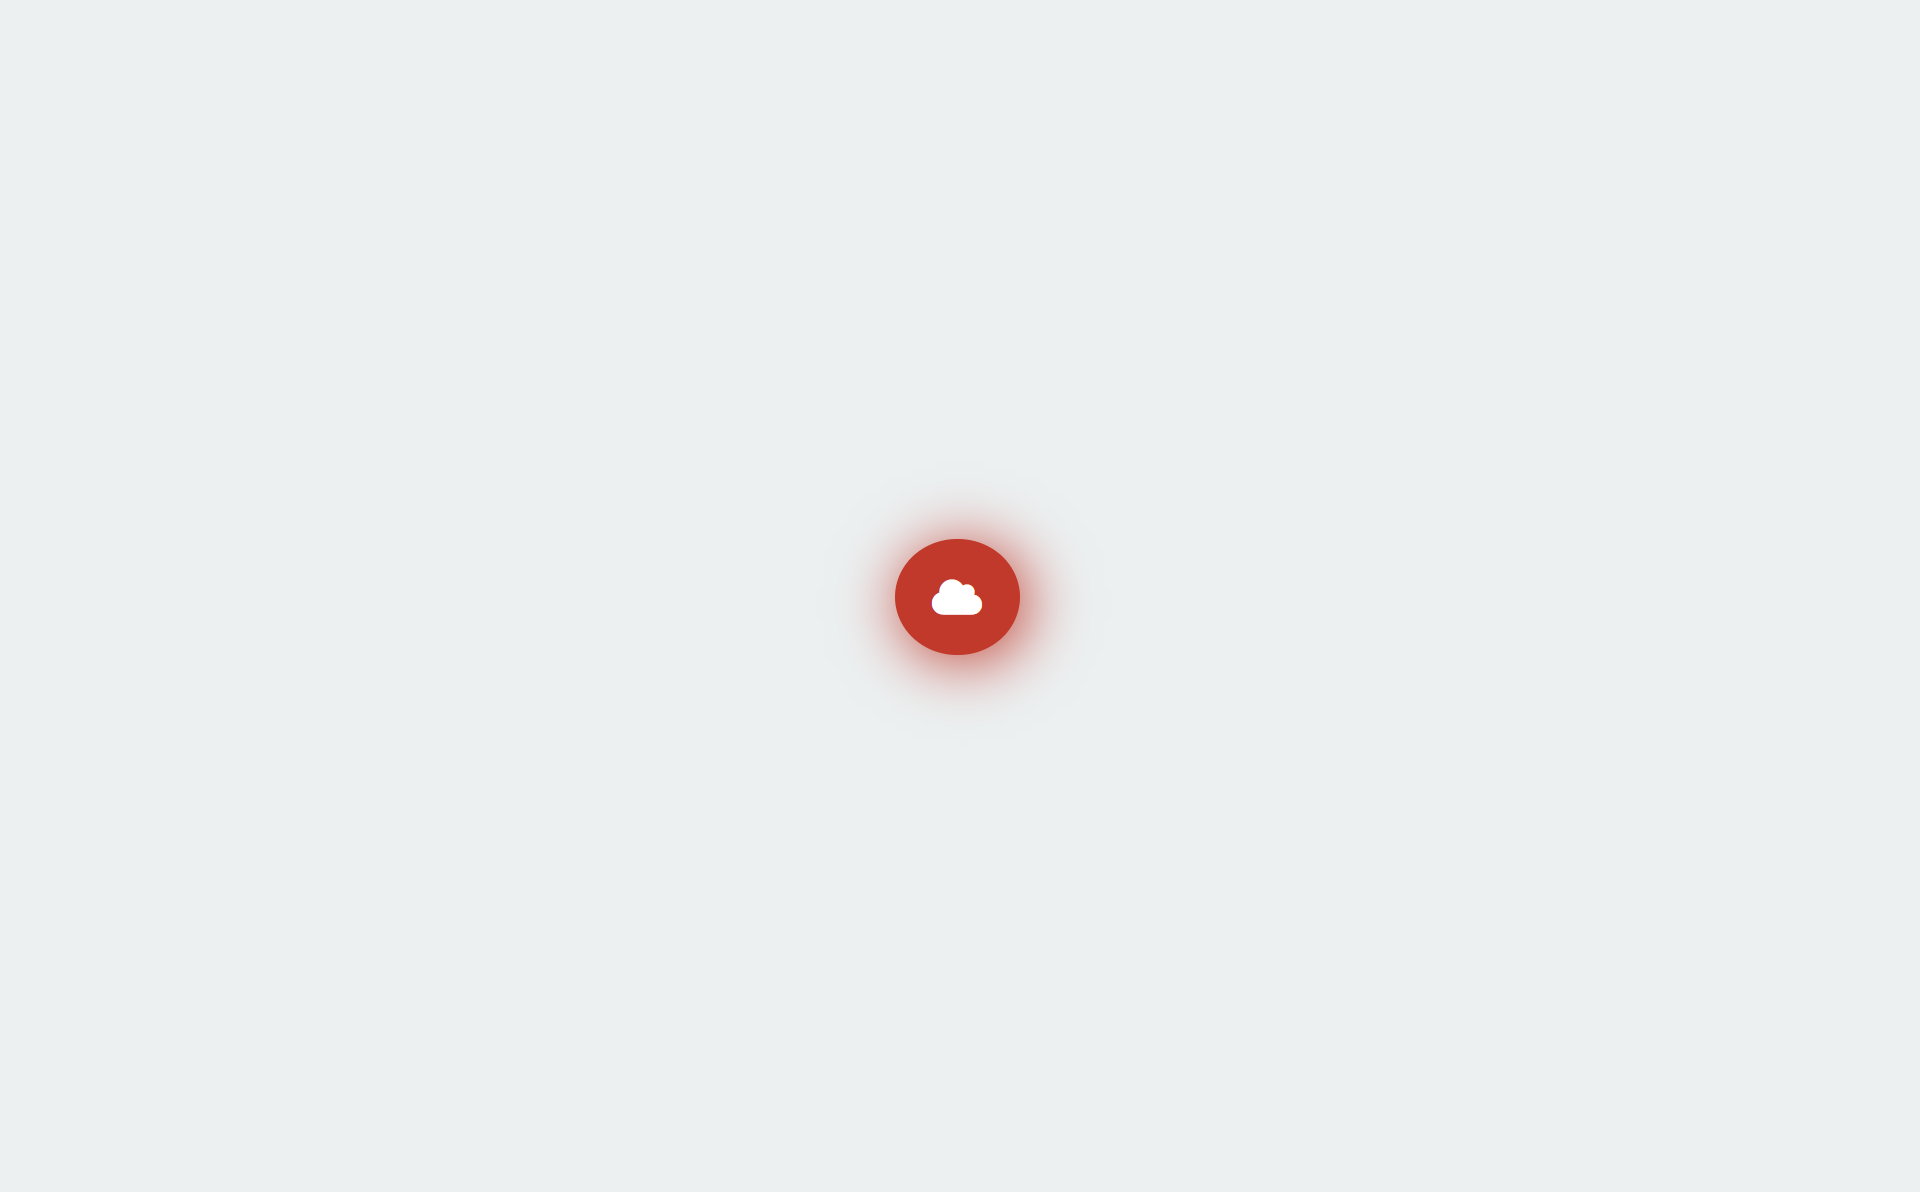
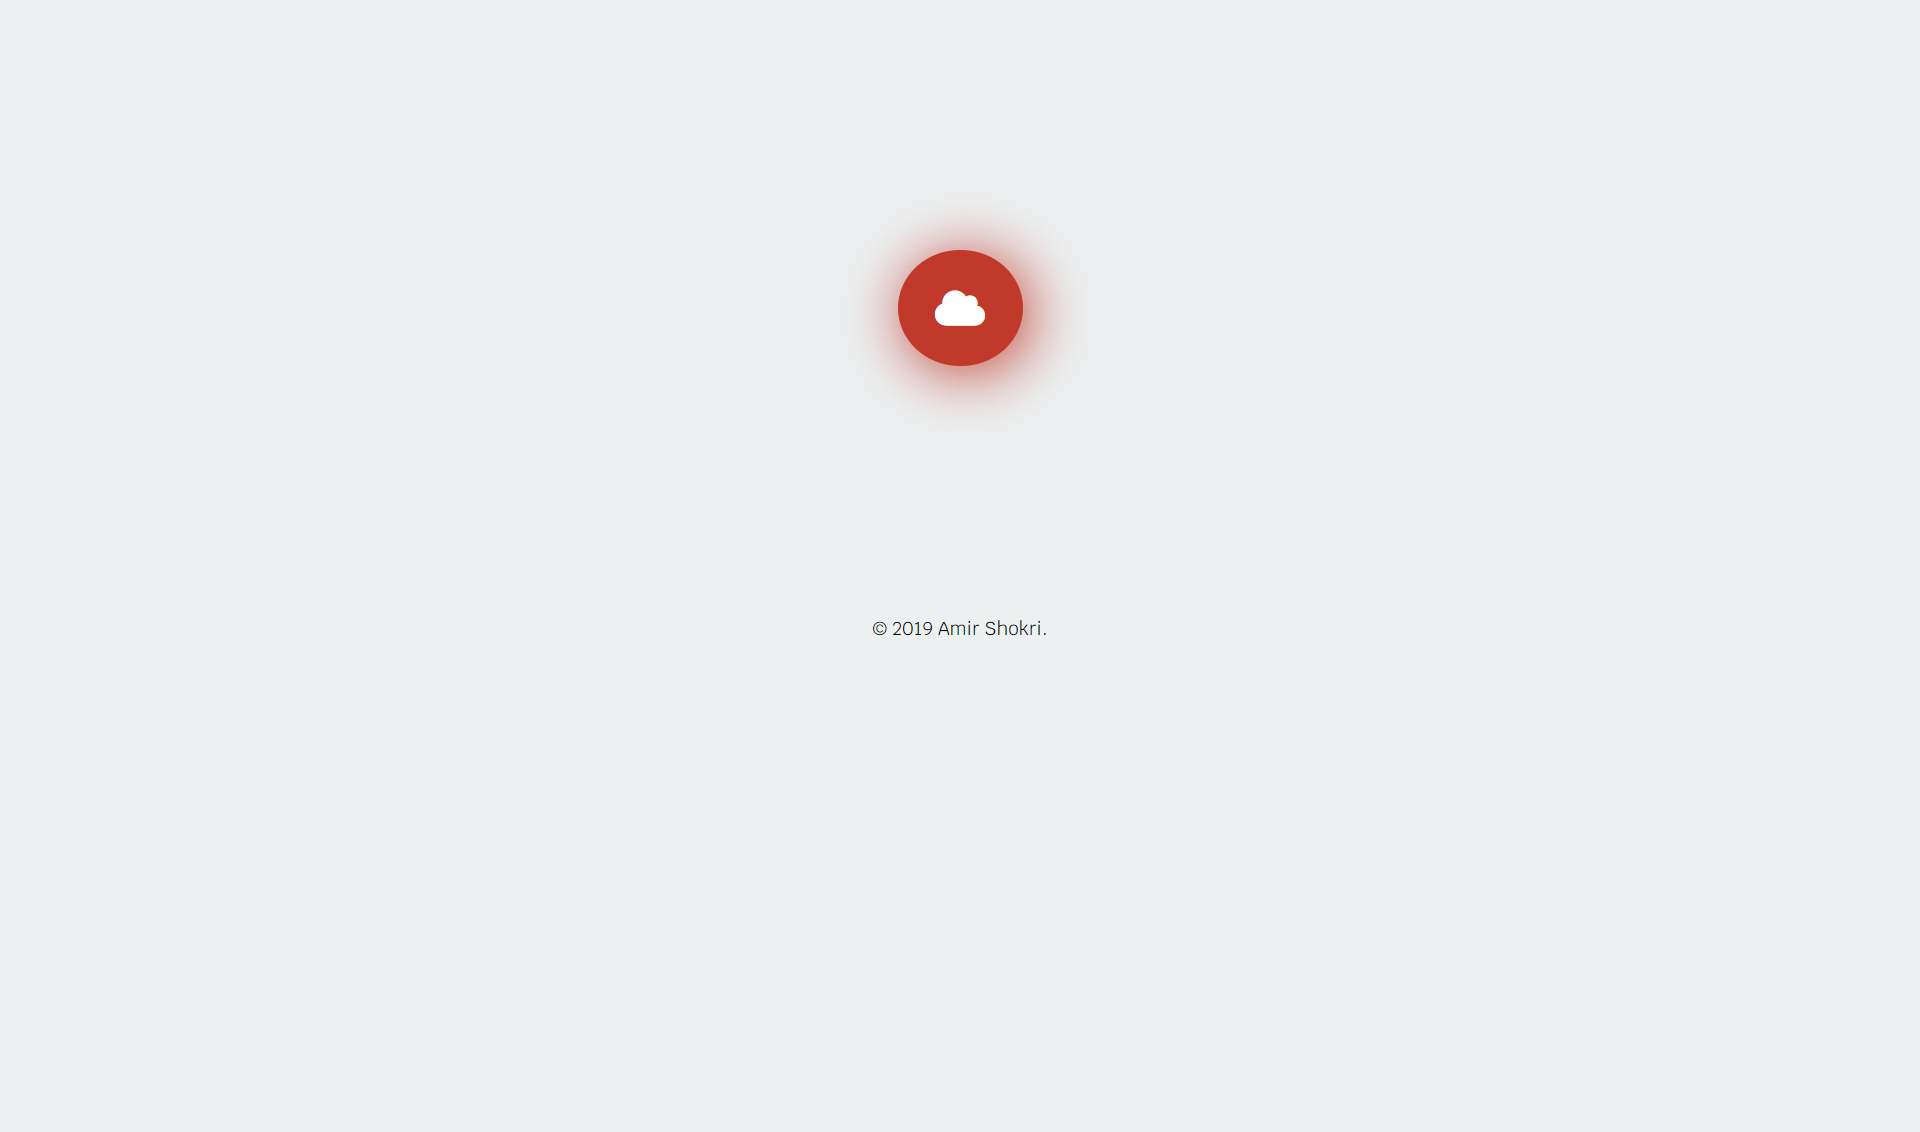
commit #66 (finish 032 Crowdfunding Campaign)
finish 032 Crowdfunding Campaign
add copy right in 031 File Upload
Minify Kurb Font Css Layout
Minfy Main Layout Repo
Add Some Class in Personal Css Library in Repo

Changed region(s): [[0.4375, 0.1855, 0.5625, 0.371], [0.4375, 0.4329, 0.5625, 0.5875]]

diff --git a/assets/css/krub-font.css b/assets/css/krub-font.css
@@ -1,91 +1,111 @@
+/* Optimise : Sat, 27 May 2019 00:07:26 */
+
 @charset "UTF-8";
 
-/* --- KRUB Font : krub-font.css --- */
-
-/* font face */
 @font-face {
-    font-family: 'Krub-Bold';
-    src: url('../font/krub/Krub-Bold.ttf') format('truetype');
-}
-@font-face {
-    font-family: 'Krub-BoldItalic';
-    src: url('../font/krub/Krub-BoldItalic.ttf') format('truetype');
-}
-@font-face {
-    font-family: 'Krub-ExtraLight';
-    src: url('../font/krub/Krub-ExtraLight.ttf') format('truetype');
-}
-@font-face {
-    font-family: 'Krub-Bold';
-    src: url('../font/krub/Krub-Bold.ttf') format('truetype');
-}
-@font-face {
-    font-family: 'Krub-Italic';
-    src: url('../font/krub/Krub-Italic.ttf') format('truetype');
-}
-@font-face {
-    font-family: 'Krub-Light';
-    src: url('../font/krub/Krub-Light.ttf') format('truetype');
-}
-@font-face {
-    font-family: 'Krub-LightItalic';
-    src: url('../font/krub/Krub-LightItalic.ttf') format('truetype');
-}
-@font-face {
-    font-family: 'Krub-Medium';
-    src: url('../font/krub/Krub-Medium.ttf') format('truetype');
-}
-@font-face {
-    font-family: 'Krub-MediumItalic';
-    src: url('../font/krub/Krub-MediumItalic.ttf') format('truetype');
-}
-@font-face {
-    font-family: 'Krub-Regular';
-    src: url('../font/krub/Krub-Regular.ttf') format('truetype');
-}
-@font-face {
-    font-family: 'Krub-SemiBold';
-    src: url('../font/krub/Krub-SemiBold.ttf') format('truetype');
-}
-@font-face {
-    font-family: 'Krub-SemiBoldItalic';
-    src: url('../font/krub/Krub-SemiBoldItalic.ttf') format('truetype');
+font-family:'Krub-Bold';
+src:url(../font/krub/Krub-Bold.ttf) format("truetype")
 }
 
-/* Classes */
+@font-face {
+font-family:'Krub-BoldItalic';
+src:url(../font/krub/Krub-BoldItalic.ttf) format("truetype")
+}
+
+@font-face {
+font-family:'Krub-ExtraLight';
+src:url(../font/krub/Krub-ExtraLight.ttf) format("truetype")
+}
+
+@font-face {
+font-family:'Krub-Bold';
+src:url(../font/krub/Krub-Bold.ttf) format("truetype")
+}
+
+@font-face {
+font-family:'Krub-Italic';
+src:url(../font/krub/Krub-Italic.ttf) format("truetype")
+}
+
+@font-face {
+font-family:'Krub-Light';
+src:url(../font/krub/Krub-Light.ttf) format("truetype")
+}
+
+@font-face {
+font-family:'Krub-LightItalic';
+src:url(../font/krub/Krub-LightItalic.ttf) format("truetype")
+}
+
+@font-face {
+font-family:'Krub-Medium';
+src:url(../font/krub/Krub-Medium.ttf) format("truetype")
+}
+
+@font-face {
+font-family:'Krub-MediumItalic';
+src:url(../font/krub/Krub-MediumItalic.ttf) format("truetype")
+}
+
+@font-face {
+font-family:'Krub-Regular';
+src:url(../font/krub/Krub-Regular.ttf) format("truetype")
+}
+
+@font-face {
+font-family:'Krub-SemiBold';
+src:url(../font/krub/Krub-SemiBold.ttf) format("truetype")
+}
+
+@font-face {
+font-family:'Krub-SemiBoldItalic';
+src:url(../font/krub/Krub-SemiBoldItalic.ttf) format("truetype")
+}
+
 .krub-bold {
-    font-family: 'Krub-Bold';
+font-family:'Krub-Bold'!important
 }
+
 .krub-bolditalic {
-    font-family: 'Krub-BoldItalic';
+font-family:'Krub-BoldItalic'!important
 }
+
 .krub-extralight {
-    font-family: 'Krub-ExtraLight';
+font-family:'Krub-ExtraLight'!important
 }
+
 .krub-bold {
-    font-family: 'Krub-Bold';
+font-family:'Krub-Bold'!important
 }
+
 .krub-italic {
-    font-family: 'Krub-Italic';
+font-family:'Krub-Italic'!important
 }
+
 .krub-light {
-    font-family: 'Krub-Light';
+font-family:'Krub-Light'!important
 }
+
 .krub-lightitalic {
-    font-family: 'Krub-LightItalic';
+font-family:'Krub-LightItalic'!important
 }
+
 .krub-medium {
-    font-family: 'Krub-Medium';
+font-family:'Krub-Medium'!important
 }
+
 .krub-mediumitalic {
-    font-family: 'Krub-MediumItalic';
+font-family:'Krub-MediumItalic'!important
 }
+
 .krub-regular {
-    font-family: 'Krub-Regular';
+font-family:'Krub-Regular'!important
 }
+
 .krub-semibold {
-    font-family: 'Krub-SemiBold';
+font-family:'Krub-SemiBold'!important
 }
+
 .krub-semibolditalic {
-    font-family: 'Krub-SemiBoldItalic';
+font-family:'Krub-SemiBoldItalic'!important
 }

diff --git a/032_crowdfunding_campaign.html b/032_crowdfunding_campaign.html
@@ -11,9 +11,26 @@
 </head>
 <body>
 
-	<div class="ui-032 left-to-right krub-regular d-block">
+	<div class="ui-032 left-to-right krub-regular d-flex col-12">
 
 		<!-- Page Content -->
+		<div class="donate-box d-inline-block silver-bg text-center m-auto">
+			<div class="row">
+				<div class="col-12">
+					<h1>Help War on Poverty Today</h1>
+					<p>Working today to change tomorrow!</p>
+					<br />
+					<h2>Donate Now</h2>
+					<p>$19.99</p>
+					<form method="get" action="">
+						<input type="submit" name="donate" value="Donate" class="b-none pomegranate-bg text-light c-pointer display-1-2" />
+					</form>
+					<br />
+					<p>Your generous gift will help us fund our mission to help those in need. Together, we can make a difference.</p>
+				</div>
+			</div>
+			<p class="display-1-2 text-center">&copy; 2019 Amir Shokri.</p>
+		</div>
 
 	</div>
 

diff --git a/index.html b/index.html
@@ -64,7 +64,7 @@
 						<li><a href="030_pricing.html" title="Daily UI 030">30. Pricing</a></li>
 						<li><a href="031_file_upload.html" title="Daily UI 031">31. File Upload</a></li>
 						<li><a href="032_crowdfunding_campaign.html" title="Daily UI 032">32. Crowdfunding Campaign</a></li>
-						<li><a href="033_customize _product.html" title="Daily UI 033">33. Customize Product</a></li>
+						<li><a href="033_customize_product.html" title="Daily UI 033">33. Customize Product</a></li>
 						<li><a href="#" title="Daily UI 034">34. Car Interface</a></li>
 						<li><a href="#" title="Daily UI 035">35. Blog Post</a></li>
 						<li><a href="#" title="Daily UI 036">36. Special Offer</a></li>

diff --git a/assets/css/layout.css b/assets/css/layout.css
@@ -1410,7 +1410,26 @@ box-shadow:5px 5px 50px #c0392b
 width:100%;
 height:100%;
 margin:0;
-padding:0
+padding:0;
+background-image:url(../img/background-032.jpg);
+background-size:cover;
+background-position:center;
+background-repeat:no-repeat
+}
+
+.ui-032 .donate-box {
+margin:100px auto!important;
+padding:100px 50px;
+border-radius:25px;
+opacity:.6;
+box-shadow:0 0 30px #34495e
+}
+
+.ui-032 .donate-box form input[type="submit"] {
+border-radius:25px;
+padding:10px 30px;
+box-shadow:0 0 30px #34495e;
+letter-spacing:2px
 }
 
 .ui-033 {

diff --git a/031_file_upload.html b/031_file_upload.html
@@ -25,6 +25,7 @@
 					</form>
 				</div>
 			</div>
+			<p class="display-1-2 text-center">&copy; 2019 Amir Shokri.</p>
 		</div>
 
 	</div>

diff --git a/assets/css/library.css b/assets/css/library.css
@@ -129,6 +129,10 @@ display:inline-block!important
 display:none
 }
 
+.d-flex {
+display:flex
+}
+
 .m-auto {
 margin:auto!important
 }
